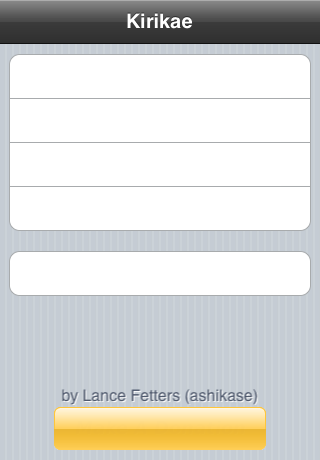
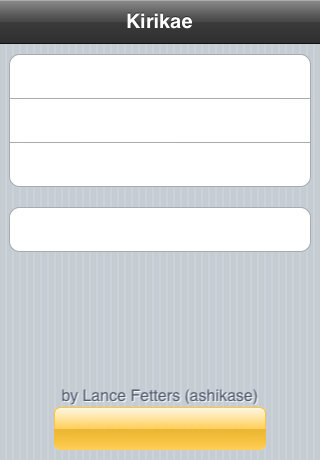
Prefs: Renamed General control to Tabs; moved favorites link to Tabs

Changed region(s): [[0.0312, 0.487, 0.9688, 0.6696], [0.0312, 0.3957, 0.9688, 0.4565]]

diff --git a/Preferences/TabsController.m b/Preferences/TabsController.m
@@ -3,7 +3,7 @@
  * Type: iPhone OS SpringBoard extension (MobileSubstrate-based)
  * Description: a task manager/switcher for iPhoneOS
  * Author: Lance Fetters (aka. ashikase)
- * Last-modified: 2010-02-23 23:29:33
+ * Last-modified: 2010-02-24 00:25:07
  */
 
 /**
@@ -40,43 +40,52 @@
  */
 
 
-#import "GeneralController.h"
+#import "TabsController.h"
 
 #import <CoreGraphics/CGGeometry.h>
 
 #import <Foundation/Foundation.h>
 
 #import "Constants.h"
+#import "FavoritesController.h"
 #import "Preferences.h"
 #import "ToggleButton.h"
 
 
-@implementation GeneralController
+@implementation TabsController
 
 - (id)initWithStyle:(UITableViewStyle)style
 {
     self = [super initWithStyle:style];
     if (self) {
-        self.title = @"General";
+        self.title = @"Tabs";
     }
     return self;
+}
+
+- (void)viewWillAppear:(BOOL)animated
+{
+    // Reset the table by deselecting the current selection
+    [self.tableView deselectRowAtIndexPath:[self.tableView indexPathForSelectedRow] animated:YES];
 }
 
 #pragma mark - UITableViewDataSource
 
 - (int)numberOfSectionsInTableView:(UITableView *)tableView
 {
-	return 2;
+	return 3;
 }
 
 - (NSString *)tableView:(UITableView *)tableView titleForHeaderInSection:(int)section
 {
-    return (section == 0) ? @"Enabled Tabs" : @"Always start with...";
+    static NSString *titles[] = {@"Enabled Tabs", @"Always start with...", @"Tab Options"};
+    return titles[section];
 }
 
 - (int)tableView:(UITableView *)tableView numberOfRowsInSection:(int)section
 {
-    return (section == 0) ? 4 : 5;
+    static int rows[] = {4, 5, 1};
+    return rows[section];
 }
 
 - (UITableViewCell *)tableView:(UITableView *)tableView cellForRowAtIndexPath:(NSIndexPath *)indexPath
@@ -113,9 +122,14 @@
             cell = [[[UITableViewCell alloc] initWithStyle:UITableViewCellStyleDefault reuseIdentifier:reuseIdSimple] autorelease];
             cell.selectionStyle = UITableViewCellSelectionStyleGray;
         }
-        cell.textLabel.text = cellTitles[indexPath.row];
-        cell.accessoryType = ([[Preferences sharedInstance] integerForKey:kInitialView] == indexPath.row) ?
-            UITableViewCellAccessoryCheckmark : UITableViewCellAccessoryNone;
+        if (indexPath.section == 2) {
+            cell.textLabel.text = @"Favorites";
+            cell.accessoryType = UITableViewCellAccessoryDisclosureIndicator;
+        } else {
+            cell.textLabel.text = cellTitles[indexPath.row];
+            cell.accessoryType = ([[Preferences sharedInstance] integerForKey:kInitialView] == indexPath.row) ?
+                UITableViewCellAccessoryCheckmark : UITableViewCellAccessoryNone;
+        }
     }
 
     return cell;
@@ -129,6 +143,9 @@
         // Store the selected option
         [[Preferences sharedInstance] setInteger:indexPath.row forKey:kInitialView];
         [tableView reloadData];
+    } else if (indexPath.section == 2) {
+        UIViewController *vc = [[[FavoritesController alloc] initWithStyle:1] autorelease];
+        [[self navigationController] pushViewController:vc animated:YES];
     }
 }
 

diff --git a/Preferences/RootController.m b/Preferences/RootController.m
@@ -3,7 +3,7 @@
  * Type: iPhone OS SpringBoard extension (MobileSubstrate-based)
  * Description: a task manager/switcher for iPhoneOS
  * Author: Lance Fetters (aka. ashikase)
- * Last-modified: 2010-02-21 15:18:48
+ * Last-modified: 2010-02-24 00:27:05
  */
 
 /**
@@ -53,10 +53,9 @@
 #import "AppearanceController.h"
 #import "Constants.h"
 #import "DocumentationController.h"
-#import "GeneralController.h"
 #import "HtmlDocController.h"
-#import "FavoritesController.h"
 #import "Preferences.h"
+#import "TabsController.h"
 
 //==============================================================================
 
@@ -117,7 +116,7 @@
 - (void)viewDidLoad
 {
     // Create and add footer view
-    UIView *view = [[UIView alloc] initWithFrame:CGRectMake(0, 0, 320.0f, 144.0f)];
+    UIView *view = [[UIView alloc] initWithFrame:CGRectMake(0, 0, 320.0f, 188.0f)];
 
     // Donation button
     UIButton *button = [UIButton buttonWithType:UIButtonTypeCustom];
@@ -159,7 +158,7 @@
 
 - (int)tableView:(UITableView *)tableView numberOfRowsInSection:(int)section
 {
-    static int rows[] = {4, 1};
+    static int rows[] = {3, 1};
     return rows[section];
 }
 
@@ -171,7 +170,7 @@
 
     UITableViewCell *cell = nil;
     if (indexPath.section == 0) {
-        if (indexPath.row == 2) {
+        if (indexPath.row == 1) {
             // Try to retrieve from the table view a now-unused cell with the given identifier
             cell = [tableView dequeueReusableCellWithIdentifier:reuseIdRightValue];
             if (cell == nil) {
@@ -183,7 +182,7 @@
             cell.textLabel.text = @"Control";
             cell.detailTextLabel.text = @"(via Activator)";
         } else {
-            static NSString *cellTitles[] = {@"General", @"Appearance", nil, @"Favorites"};
+            static NSString *cellTitles[] = {@"Appearance", nil, @"Tabs"};
 
             // Try to retrieve from the table view a now-unused cell with the given identifier
             cell = [tableView dequeueReusableCellWithIdentifier:reuseIdSimple];
@@ -220,22 +219,19 @@
     if (indexPath.section == 0) {
         switch (indexPath.row) {
             case 0:
-                // General
-                vc = [[[GeneralController alloc] initWithStyle:1] autorelease];
-                break;
-            case 1:
                 // Appearance
                 vc = [[[AppearanceController alloc] initWithStyle:1] autorelease];
                 break;
-            case 2:
+            case 1:
                 // Control
                 vc = [[[KirikaeSettingsViewController alloc] init] autorelease];
                 [(KirikaeSettingsViewController *)vc setListenerName:@APP_ID];
                 break;
-            case 3:
+            case 2:
+                // Tabs
+                vc = [[[TabsController alloc] initWithStyle:1] autorelease];
+                break;
             default:
-                // Favorites
-                vc = [[[FavoritesController alloc] initWithStyle:1] autorelease];
                 break;
         }
     } else {

diff --git a/Preferences/TabsController.h b/Preferences/TabsController.h
@@ -1,0 +1,52 @@
+/**
+ * Name: Kirikae
+ * Type: iPhone OS SpringBoard extension (MobileSubstrate-based)
+ * Description: a task manager/switcher for iPhoneOS
+ * Author: Lance Fetters (aka. ashikase)
+ * Last-modified: 2010-02-24 00:12:22
+ */
+
+/**
+ * Copyright (C) 2009  Lance Fetters (aka. ashikase)
+ * All rights reserved.
+ *
+ * Redistribution and use in source and binary forms, with or without
+ * modification, are permitted provided that the following conditions
+ * are met:
+ *
+ * 1. Redistributions of source code must retain the above copyright
+ *    notice, this list of conditions and the following disclaimer.
+ *
+ * 2. Redistributions in binary form must reproduce the above copyright
+ *    notice, this list of conditions and the following disclaimer in
+ *    the documentation and/or other materials provided with the
+ *    distribution.
+ *
+ * 3. The name of the author may not be used to endorse or promote
+ *    products derived from this software without specific prior
+ *    written permission.
+ *
+ * THIS SOFTWARE IS PROVIDED BY THE AUTHOR "AS IS" AND ANY EXPRESS
+ * OR IMPLIED WARRANTIES, INCLUDING, BUT NOT LIMITED TO, THE IMPLIED
+ * WARRANTIES OF MERCHANTABILITY AND FITNESS FOR A PARTICULAR PURPOSE
+ * ARE DISCLAIMED. IN NO EVENT SHALL THE AUTHOR BE LIABLE FOR ANY DIRECT,
+ * INDIRECT, INCIDENTAL, SPECIAL, EXEMPLARY, OR CONSEQUENTIAL DAMAGES
+ * (INCLUDING, BUT NOT LIMITED TO, PROCUREMENT OF SUBSTITUTE GOODS OR
+ * SERVICES; LOSS OF USE, DATA, OR PROFITS; OR BUSINESS INTERRUPTION)
+ * HOWEVER CAUSED AND ON ANY THEORY OF LIABILITY, WHETHER IN CONTRACT,
+ * STRICT LIABILITY, OR TORT (INCLUDING NEGLIGENCE OR OTHERWISE) ARISING
+ * IN ANY WAY OUT OF THE USE OF THIS SOFTWARE, EVEN IF ADVISED OF THE
+ * POSSIBILITY OF SUCH DAMAGE.
+ */
+
+
+#import <UIKit/UIKit.h>
+
+
+@interface TabsController : UITableViewController
+{
+}
+
+@end
+
+/* vim: set syntax=objc sw=4 ts=4 sts=4 expandtab textwidth=80 ff=unix: */
